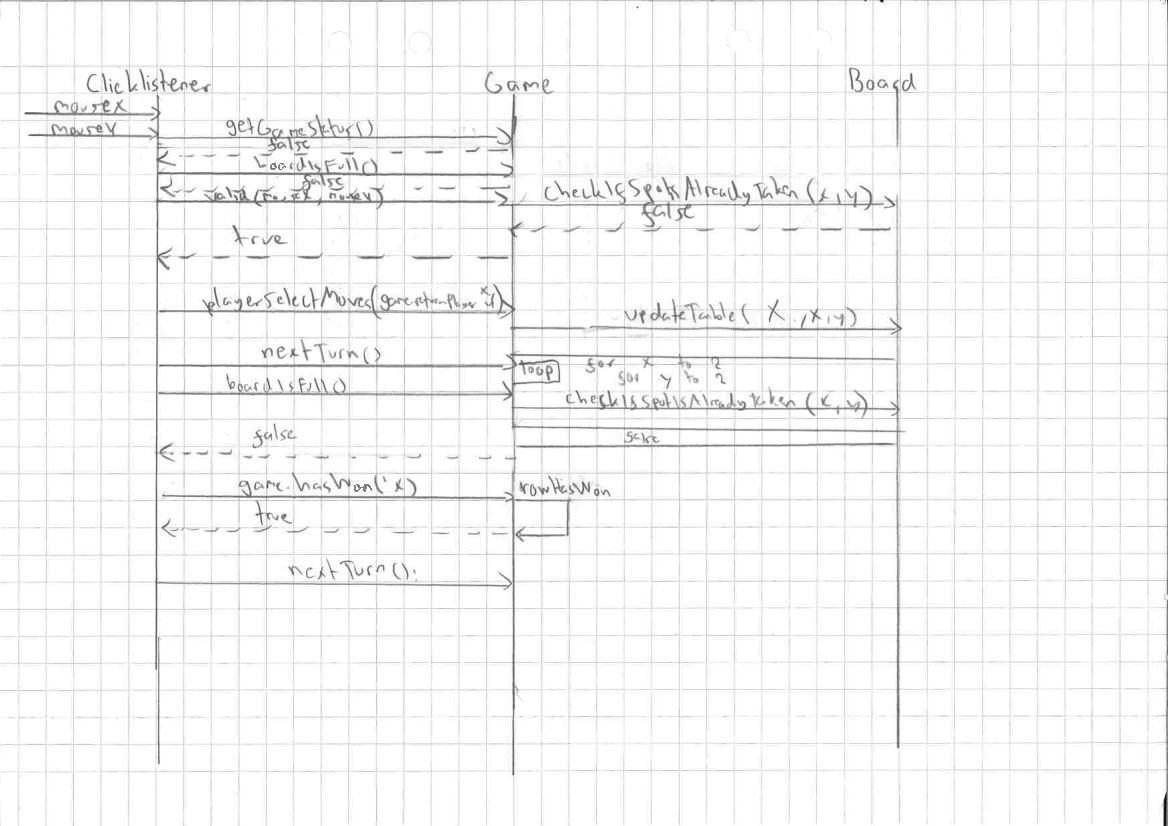
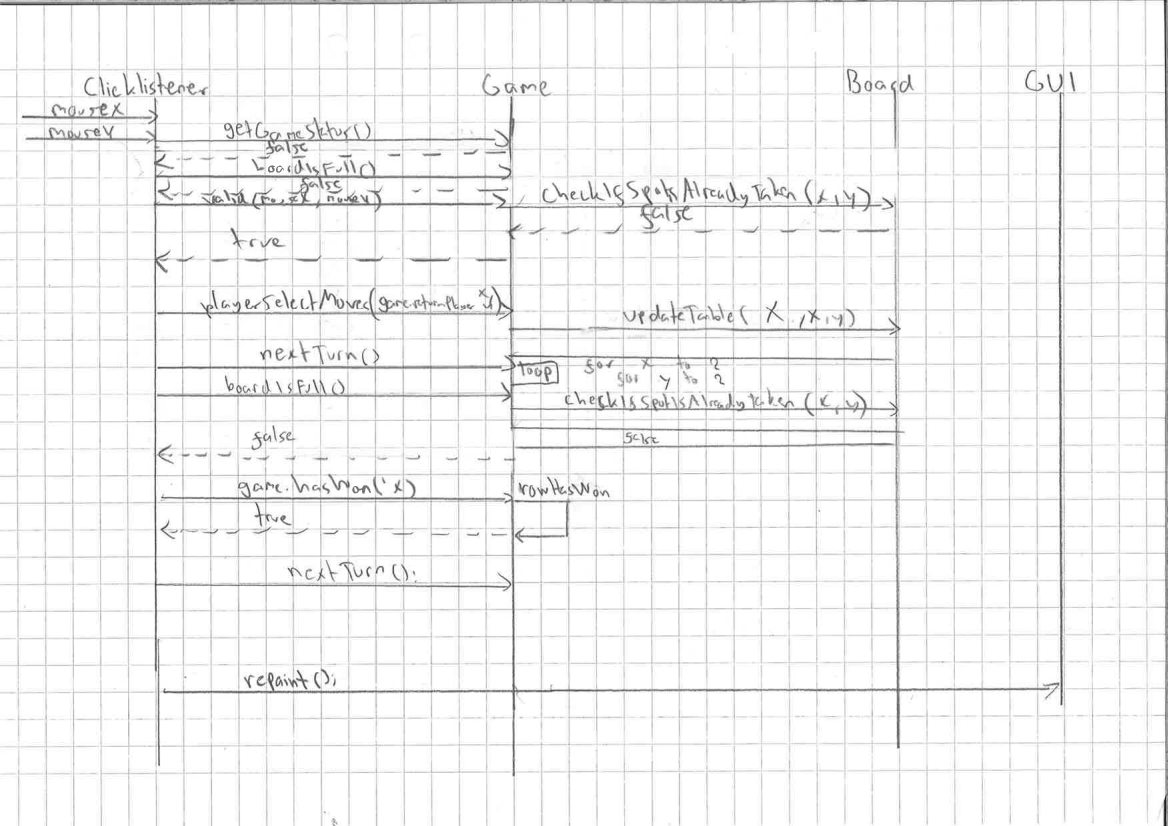
Luokkakaaviot korjattu

diff --git a/dokumentaatio/tuntikirjanpito.md b/dokumentaatio/tuntikirjanpito.md
@@ -12,4 +12,5 @@ Päivä | Tunnit | Kuvaus
 7.2.2017 | 5h | Käyttöliittymän tekeminen, klikkauskuuntelijan tekeminen  ja yritetty miettiä miten logiikan saisi toimimaan siinä
 8.2.2017 | 2h | Koodia siistitty, tehty tarvittavat raportit ja uusi luokkakaavio
 14.2.2017| 5h | Peli tehty toimivaksi, koodia siistitty
-16.2.2017| 2h | Lisätty uusia testejä, paranneltu pelin toiminnallisuutta
+16.2.2017| 4h | Lisätty uusia testejä, paranneltu pelin toiminnallisuutta
+17.2.2017| 2h | Korjattu luokkakaavioita, tehty pit ja checkstyle-testit
